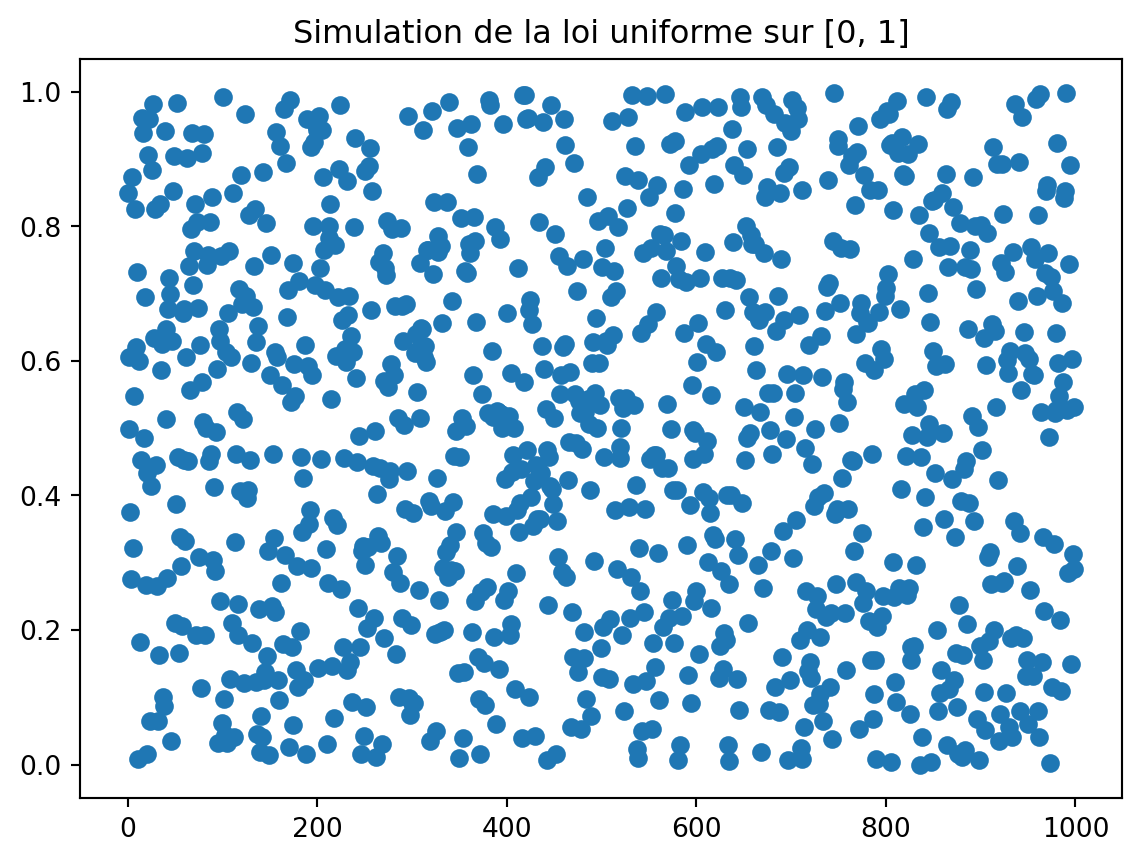
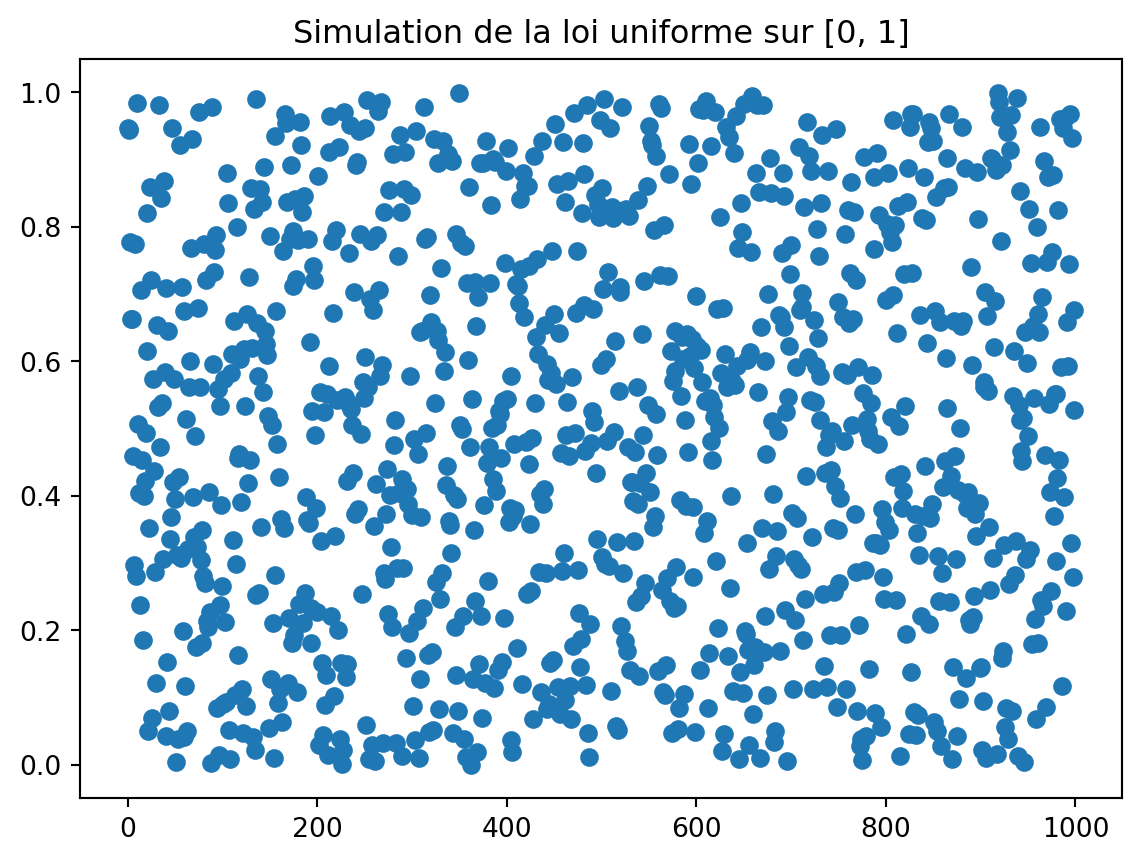
Built site for gh-pages

diff --git a/posts/Simulation/index.html b/posts/Simulation/index.html
@@ -8,7 +8,7 @@
 
 <meta name="author" content="Jumbong Junior">
 
-<title>Menu - Simulation de variables aléatoires continues</title>
+<title>Menu - Simulation of a real and continuous random variable</title>
 <style>
 code{white-space: pre-wrap;}
 span.smallcaps{font-variant: small-caps;}
@@ -178,7 +178,7 @@ window.Quarto = {
       <button type="button" class="quarto-btn-toggle btn" data-bs-toggle="collapse" data-bs-target=".quarto-sidebar-collapse-item" aria-controls="quarto-sidebar" aria-expanded="false" aria-label="Toggle sidebar navigation" onclick="if (window.quartoToggleHeadroom) { window.quartoToggleHeadroom(); }">
         <i class="bi bi-layout-text-sidebar-reverse"></i>
       </button>
-        <nav class="quarto-page-breadcrumbs" aria-label="breadcrumb"><ol class="breadcrumb"><li class="breadcrumb-item">Simulation de variables aléatoires continues</li></ol></nav>
+        <nav class="quarto-page-breadcrumbs" aria-label="breadcrumb"><ol class="breadcrumb"><li class="breadcrumb-item">Simulation of a real and continuous random variable</li></ol></nav>
         <a class="flex-grow-1" role="button" data-bs-toggle="collapse" data-bs-target=".quarto-sidebar-collapse-item" aria-controls="quarto-sidebar" aria-expanded="false" aria-label="Toggle sidebar navigation" onclick="if (window.quartoToggleHeadroom) { window.quartoToggleHeadroom(); }">      
         </a>
       <button type="button" class="btn quarto-search-button" aria-label="" onclick="window.quartoOpenSearch();">
@@ -273,7 +273,7 @@ window.Quarto = {
 
 <header id="title-block-header" class="quarto-title-block default">
 <div class="quarto-title">
-<h1 class="title">Simulation de variables aléatoires continues</h1>
+<h1 class="title">Simulation of a real and continuous random variable</h1>
   <div class="quarto-categories">
     <div class="quarto-category">news</div>
   </div>
@@ -307,19 +307,20 @@ window.Quarto = {
 
 <section id="introduction" class="level1">
 <h1>Introduction</h1>
-<p>Dans le cadre d’un projet sur la <a href="http://www.thierry-roncalli.com/download/Lecture-Notes-Copula-Ensai.pdf">théorie de copule</a>, je me suis rendu compte que la simulation des variables aléatoires n’est pas si simple que ça. J’ai donc décidé de me pencher sur le sujet. Dans ce papier, nous nous concentrerons sur la simulation d’une variable aléatoire réelle et continue X. Nous utiliserons les atouts du langage de python pour aborder de façon empirique(avec des données observées), de loi d’une variable aléatoire, la loi des grands nombres et le théorème central limite. Je m’inspirerai du livre “Le Logiciel R: Maîtriser le langage - Effectuer des analyses statistiques” de Pierre Lafaye de Micheaux, Rémy Drouilhet et Benoit Liquet. Je pense que ce livre est très intéressant pour tout novice en statistique et en programmation. Il est très bien écrit et très pédagogique. Je vous le recommande vivement.</p>
+<p>In the context of a project on copula theory, I realized that simulating random variables is not as simple as it seems. I have therefore decided to delve into the subject. In this paper, we will focus on the simulation of a real and continuous random variable X. We will use the strengths of the Python language to empirically address (with observed data) the distribution of a random variable, the law of large numbers, and the central limit theorem. I will be inspired by the book “The R Software: Mastering the Language - Performing Statistical Analyses” by Pierre Lafaye de Micheaux, Rémy Drouilhet and Benoit Liquet. I think this book is very interesting for any beginner in statistics and programming. It is very well written and very pedagogical. I highly recommend it.</p>
 </section>
-<section id="la-base-de-la-simulation-la-loi-uniforme-sur-0-1" class="level1">
-<h1>La base de la simulation : la loi uniforme sur [0, 1]</h1>
-<p>Je me suis souvent demandé comment, les ordinateurs généraient des nombres aléatoires, et une autre question qui me pertubait était de savoir comment générait-on des nombres aléatoires qui suivent une loi donnée ? C’est cette question est facile, vous verrez que tout se repose sur la loi uniforme. Et savoir simuler une loi uniforme permettra de simuler n’importe quelle loi de variable aléatoire que l’on connaît la fonction de répartition. Je vais vous expliquer pourquoi : La loi uniforme est une loi de probabilités continuent sur l’intervalle [0,1]. Elle est définie par la fonction de répartition suivante : <span class="math inline">\(F(x) = x\)</span> si <span class="math inline">\(x \in [0, 1]\)</span> et <span class="math inline">\(F(x) = 0\)</span> si <span class="math inline">\(x &lt; 0\)</span> et <span class="math inline">\(F(x) = 1\)</span> si <span class="math inline">\(x &gt; 1\)</span>. La densité de probabilité est donnée par <span class="math inline">\(f(x) = 1\)</span> si <span class="math inline">\(x \in [0, 1]\)</span> et <span class="math inline">\(f(x) = 0\)</span> sinon. De plus, la fonction de répartition est croissante et continue.</p>
-<p>Maintenant, Considérons une variable aléatoire continue réelle X c’est à dire définir sur un espace mesurable <span class="math inline">\((\Omega, \mathcal{F}, P)\)</span> à valeur réelle de de fonction de répartition F définie par : <span class="math display">\[F(x) = P(X \leq x)\]</span></p>
-<p>Un résultat important en simulation est que la variable aléatoire F(X) suit une loi uniforme. En effet, <span class="math display">\[P(F(X) \leq x) = P(X \leq F^{-1}(x)) = F(F^{-1}(x)) = x\]</span></p>
-<p>Cela signifie que l’on peut écrire <span class="math inline">\(F(X)=U\)</span> équivalent à <span class="math inline">\(X=F^{-1}(U)\)</span> où U suit une loi uniforme sur [0, 1]. Cela signifie que si on sait simuler une loi uniforme, on peut simuler n’importe quelle loi de variable aléatoire. C’est ce que nous allons faire dans la suite.</p>
+<section id="the-foundation-of-simulation-the-uniform-distribution-on-0-1" class="level1">
+<h1>The foundation of simulation: the uniform distribution on [0, 1]</h1>
+<p>I have often wondered how computers generate random numbers, and another question that bothered me was how to generate random numbers that follow a given distribution. This question is easy, you’ll see that it all comes down to the uniform distribution. And knowing how to simulate a uniform distribution will allow you to simulate any random variable distribution for which you know the cumulative distribution function. Let me explain why.</p>
+<p>The uniform distribution is a continuous probability distribution on the interval . It is defined by the following cumulative distribution function: <span class="math inline">\(F(x) = x\)</span> if <span class="math inline">\(x \in [0, 1]\)</span> and <span class="math inline">\(F(x) = 0\)</span> if <span class="math inline">\(x &lt; 0\)</span> et <span class="math inline">\(F(x) = 1\)</span> if <span class="math inline">\(x &gt; 1\)</span>. The probability density is given by <span class="math inline">\(f(x) = 1\)</span> if <span class="math inline">\(x \in [0, 1]\)</span> and <span class="math inline">\(f(x) = 0\)</span> otherwise. Furthermore, the cumulative distribution function is increasing and continuous.</p>
+<p>Now, let’s consider a real continuous random variable X, that is, one defined on a measurable space <span class="math inline">\((\Omega, \mathcal{F}, P)\)</span> with a real-valued cumulative distribution function F defined by : <span class="math display">\[F(x) = P(X \leq x)\]</span></p>
+<p>An important result in simulation is that the random variable F(X) follows a uniform distribution. Indeed, we have: <span class="math display">\[P(F(X) \leq x) = P(X \leq F^{-1}(x)) = F(F^{-1}(x)) = x\]</span></p>
+<p>This means that we can write <span class="math inline">\(F(X) = U\)</span>, equivalent to <span class="math inline">\(X = F^(-1)(U)\)</span>, where U follows a uniform distribution on . This means that if we know how to simulate a uniform distribution, we can simulate any random variable distribution. This is what we will do in the following.</p>
 </section>
-<section id="simulation-de-la-loi-uniforme-sur-0-1" class="level1">
-<h1>Simulation de la loi uniforme sur [0, 1]</h1>
-<p>Pour simuler une loi uniforme sur [0, 1], nous allons utiliser la fonction <code>random</code> du module <code>random</code> de python. Cette fonction génère des nombres aléatoires suivant une loi uniforme sur [0, 1]. Nous allons générer 1000Oui nombres aléatoires suivant une loi uniforme sur [0, 1] et les représenter graphiquement.</p>
-<div id="8cc9353c" class="cell" data-execution_count="1">
+<section id="simulation-of-the-uniform-distribution-on-0-1" class="level1">
+<h1>Simulation of the uniform distribution on [0, 1]</h1>
+<p>To simulate a uniform distribution on , we will use the <code>random</code> function from the Python <code>random</code> module. This function generates random numbers following a uniform distribution on . We will generate 1000 random numbers following a uniform distribution on and represent them graphically.</p>
+<div id="303632a9" class="cell" data-execution_count="1">
 <div class="sourceCode cell-code" id="cb1"><pre class="sourceCode python code-with-copy"><code class="sourceCode python"><span id="cb1-1"><a href="#cb1-1" aria-hidden="true" tabindex="-1"></a><span class="im">import</span> random</span>
 <span id="cb1-2"><a href="#cb1-2" aria-hidden="true" tabindex="-1"></a><span class="im">import</span> matplotlib.pyplot <span class="im">as</span> plt</span>
 <span id="cb1-3"><a href="#cb1-3" aria-hidden="true" tabindex="-1"></a></span>
@@ -339,9 +340,9 @@ window.Quarto = {
 </div>
 </div>
 </div>
-<p>Nous remarquons que les valeurs Sont répartis uniformément sur l’intervalle [0, 1]. Cela signifie que la simulation est correcte. Nous allons maintenant simuler une loi exponentielle de paramètre <span class="math inline">\(\lambda = 1\)</span>. Sa fonction de répartition est donnée par: <span class="math display">\[F(x) = 1 - e^{-x}\]</span> Et sa fonction inverse est donnée par : <span class="math display">\[F^{-1}(x) = -\ln(1-x)\]</span></p>
-<p>Nous allons simuler 1000 valeurs de la loi exponentielle de paramètre <span class="math inline">\(\lambda = 1\)</span> et les représenter graphiquement.</p>
-<div id="a1e01e68" class="cell" data-execution_count="2">
+<p>We notice that the values are uniformly distributed on the interval . This means that the simulation is correct. We will now simulate an exponential distribution with parameter <span class="math inline">\(\lambda = 1\)</span>. Its cumulative distribution function is given by: <span class="math display">\[F(x) = 1 - e^{-x}\]</span> And its inverse function is given by: <span class="math display">\[F^{-1}(x) = -\ln(1-x)\]</span></p>
+<p>We will simulate 1000 values of the exponential distribution with parameter <span class="math inline">\(\lambda = 1\)</span> and represent them graphically.</p>
+<div id="a88b5225" class="cell" data-execution_count="2">
 <div class="sourceCode cell-code" id="cb2"><pre class="sourceCode python code-with-copy"><code class="sourceCode python"><span id="cb2-1"><a href="#cb2-1" aria-hidden="true" tabindex="-1"></a><span class="im">import</span> numpy <span class="im">as</span> np</span>
 <span id="cb2-2"><a href="#cb2-2" aria-hidden="true" tabindex="-1"></a></span>
 <span id="cb2-3"><a href="#cb2-3" aria-hidden="true" tabindex="-1"></a><span class="co"># Simulation de la loi exponentielle de paramètre lambda = 1</span></span>
@@ -359,8 +360,8 @@ window.Quarto = {
 </div>
 </div>
 </div>
-<p>Nous remarquons que les valeurs sont bien réparties suivant une loi exponentielle de paramètre <span class="math inline">\(\lambda = 1\)</span>. Nous allons superposer la densité d’une loi exponentielle de paramètres lambda égale à 1 pour montrer à quel point notre simulation est parfaite.</p>
-<div id="21e29cb2" class="cell" data-execution_count="3">
+<p>We notice that the values are well distributed according to an exponential distribution with parameter <span class="math inline">\(\lambda = 1\)</span>. We will superimpose the density of an exponential distribution with parameter equal to 1 to show how perfect our simulation is.</p>
+<div id="fe6b5029" class="cell" data-execution_count="3">
 <div class="sourceCode cell-code" id="cb3"><pre class="sourceCode python code-with-copy"><code class="sourceCode python"><span id="cb3-1"><a href="#cb3-1" aria-hidden="true" tabindex="-1"></a><span class="im">import</span> scipy.stats <span class="im">as</span> stats</span>
 <span id="cb3-2"><a href="#cb3-2" aria-hidden="true" tabindex="-1"></a></span>
 <span id="cb3-3"><a href="#cb3-3" aria-hidden="true" tabindex="-1"></a><span class="co"># Représentation graphique</span></span>
@@ -376,10 +377,7 @@ window.Quarto = {
 </div>
 </div>
 </div>
-</section>
-<section id="conclusion" class="level1">
-<h1>Conclusion</h1>
-<p>Dans ce papier, nous avons voulu montrer que simuler une loi continue est facile si l’on connaît sa fonction de répartition,sa fonction inverse et si on sait simuler une loi uniforme.</p>
+<p>Thank you for reading. If you have any questions or comments, please do not hesitate to contact me. I will be happy to answer you.</p>
 
 
 </section>

diff --git a/index.html b/index.html
@@ -757,7 +757,7 @@ Jumbong Junior
 </a>
 </div>
 </div>
-<div class="quarto-post image-right" data-index="15" data-categories="news" data-listing-date-sort="NaN" data-listing-file-modified-sort="1713894053442" data-listing-date-modified-sort="NaN" data-listing-reading-time-sort="4" data-listing-word-count-sort="686">
+<div class="quarto-post image-right" data-index="15" data-categories="news" data-listing-date-sort="NaN" data-listing-file-modified-sort="1713894311273" data-listing-date-modified-sort="NaN" data-listing-reading-time-sort="4" data-listing-word-count-sort="686">
 <div class="thumbnail">
 <p><a href="./posts/Simulation/index.html" class="no-external"></a></p><a href="./posts/Simulation/index.html" class="no-external">
 <p class="card-img-top"><img src="posts\Simulation\index_files\figure-html\cell-2-output-1.png"  class="thumbnail-image card-img"/></p>
@@ -765,7 +765,7 @@ Jumbong Junior
 </div>
 <div class="body">
 <h3 class="no-anchor listing-title">
-<a href="./posts/Simulation/index.html" class="no-external">Simulation de variables aléatoires continues</a>
+<a href="./posts/Simulation/index.html" class="no-external">Simulation of a real and continuous random variable</a>
 </h3>
 <div class="listing-subtitle">
 <a href="./posts/Simulation/index.html" class="no-external"></a>
@@ -776,7 +776,7 @@ news
 </div>
 </div>
 <div class="listing-description">
-<a href="./posts/Simulation/index.html" class="no-external">Dans le cadre d’un projet sur la théorie de copule, je me suis rendu compte que la simulation des variables aléatoires n’est pas si simple que ça. J’ai donc décidé de me…</a>
+<a href="./posts/Simulation/index.html" class="no-external">In the context of a project on copula theory, I realized that simulating random variables is not as simple as it seems. I have therefore decided to delve into the subject.…</a>
 </div>
 </div>
 <div class="metadata">
